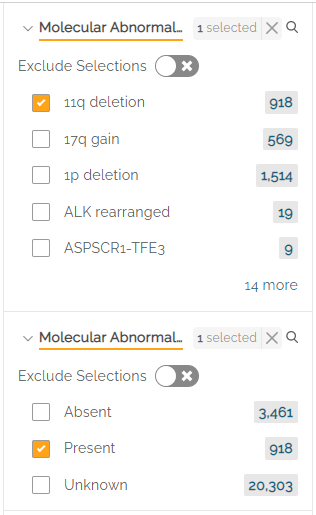
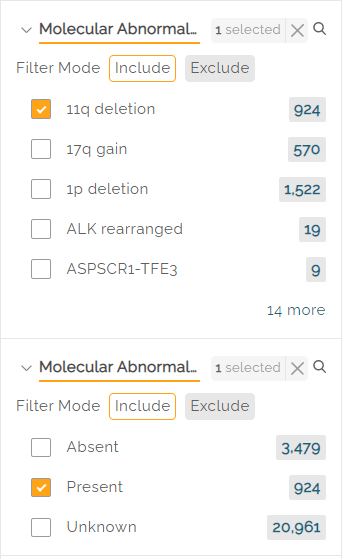
Updated for release 1.15.0
Changes implemented:
- Updated the release version
- Removed picture and text related to Age at LKSS. Replaced with Age at Censor Status
- Updated images showing Include/Exclude filter mode.

diff --git a/docs/DataPortalUserGuide.md b/docs/DataPortalUserGuide.md
@@ -1,7 +1,7 @@
 ![Logo](img/PcdcLogo.png)
 
 # Pediatric Cancer Data Commons<br> Data Portal User Guide
-###### v1.14.0 User Guide
+###### v1.15.0 User Guide
 ## Introduction
 
 The Pediatric Cancer Data Commons (PCDC) brings together clinical, genomic, and imaging data from institutions around the world that are working to transform pediatric cancer research and outcomes. Headquartered at the University of Chicago, the PCDC works with international leaders in pediatric cancers and the US National Cancer Institute to develop and apply uniform data standards, facilitating the collection, combination, and analysis of data from many different sources. 
@@ -125,13 +125,13 @@ The current Release Version of the data is included at the bottom of the left pa
 
 ### Filters and Search
 
-The Filters panel on the left side of the **Exploration** page can be used to narrow the Summary View results by selected variables. Filters act upon variables in the underlying data and are available for variables in the **Subject**, **Disease** and **Molecular** data domains. Use the expand icon (>) to see the controls available for a given filter.  
+The Filters panel on the left side of the **Exploration** page can be used to narrow the Summary View results by selected variables. Filters act upon variables in the underlying data and are available for variables in the **Subject**, **Disease**, **Molecular**, etc. data domains. Use the expand icon (>) to see the controls available for a given filter.  
 
 ![Explore Expand](img/filters.png)
 
-Note: some filters, such as **Age at LKSS** (Last Known Survival Status) have a slider to select an age range.
+Note: some filters, such as **Age at Censor Status** have a slider to select an age range.
 
-![LKSS](img/image13.png)
+![Age at Censor Status](img/image13.png)
 
 #### Bin Size
 
@@ -143,7 +143,7 @@ A bin size limit of five has been implemented for all data filters as an additio
 
 The main **Exploration** page shows a summary view of distributions across some key demographic variables for all cases in the PCDC that match the currently-selected filters.
 
-![Consortium](img/imageW2.png)
+![Exploration](img/imageW2.png)
 
 Different variable types (e.g. continuous variables, discrete variables, categorical variables) will have different controls available. For example, **Race** is a categorical (enumerative) variable, and categorical variable filters can be selected using checkboxes with one checkbox per value within that variable. The user can select the values of a variable they are interested in as part of the population. Multiple selections <u>within a single filter</u> are treated as logical ‘ORs’. Therefore, a user who selects ‘Asian’ and ‘Black or African American’ would see a result set where the subjects have a **Race** value of either ‘Asian’ OR ‘Black OR African American’
 
@@ -169,9 +169,9 @@ Clicking on the search icon to the right of a filter name (e.g. Tumor Site) allo
 
 ![Site Search](img/search.png)
 
-Once selected, the main page will show the filtered data set. To clear the search and see an unfiltered list of variable levels, the user can hit clear (x) within the search box.
+Once selected, the main page will show the filtered data set. To clear the search, the user can hit the "x" on the right side of the search box.
 
-![Filtered Data](img/shoulder.png)
+<! ![Filtered Data](img/shoulder.png) (commented out this image) ->
 
 #### Selected Filters
 
@@ -187,7 +187,7 @@ Some filters have an interdependency. Example: selecting the 11q deletion molecu
 
 #### Filter by Consortium  
 
-The left panel includes a Consortium filter in the Subject tab which allows users to select the disease consortium data from which to create a cohort. The below screenshot shows data is available from INRG (International Neuroblastoma Risk Group) and INSTRuCT (INternational Soft Tissue saRcoma ConsorTium) subjects. 
+The left panel includes a Consortium filter in the Subject tab which allows users to select the disease consortium data from which to create a cohort. Data is available from INRG (International Neuroblastoma Risk Group) and INSTRuCT (INternational Soft Tissue saRcoma ConsorTium) subjects. 
 
 ![Consortium Selection](img/consortium_selection.png)
 
